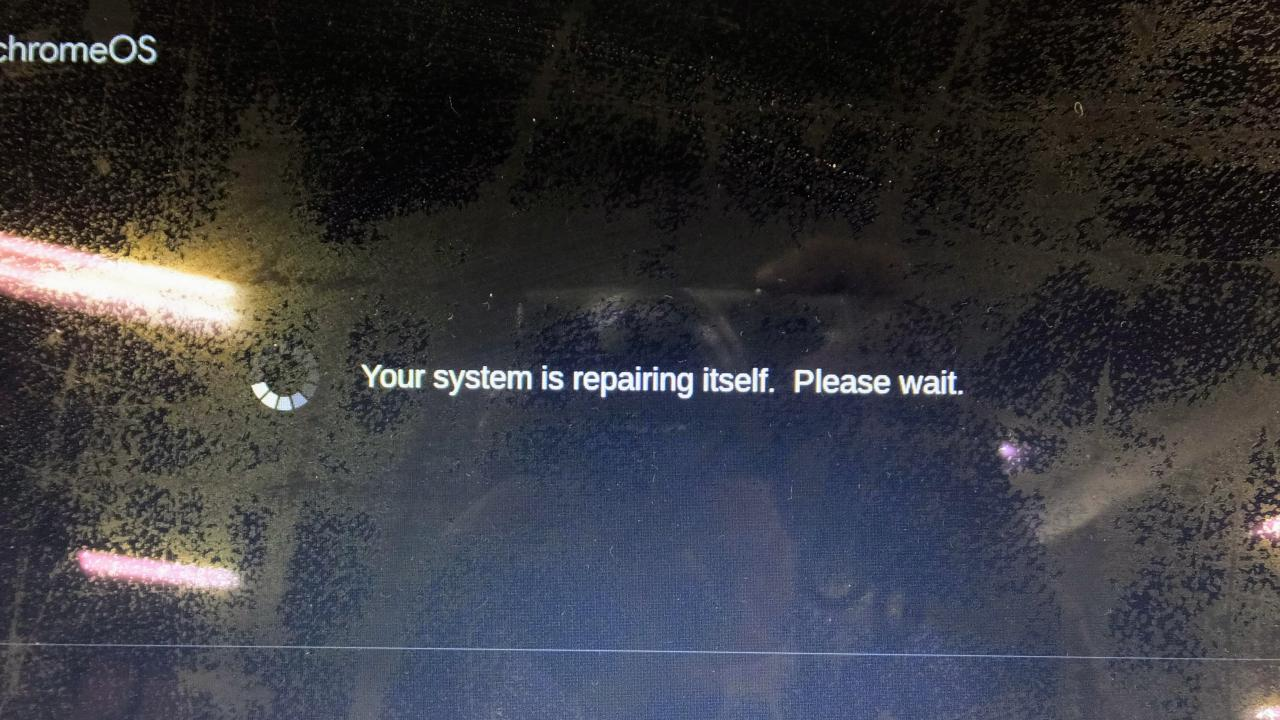
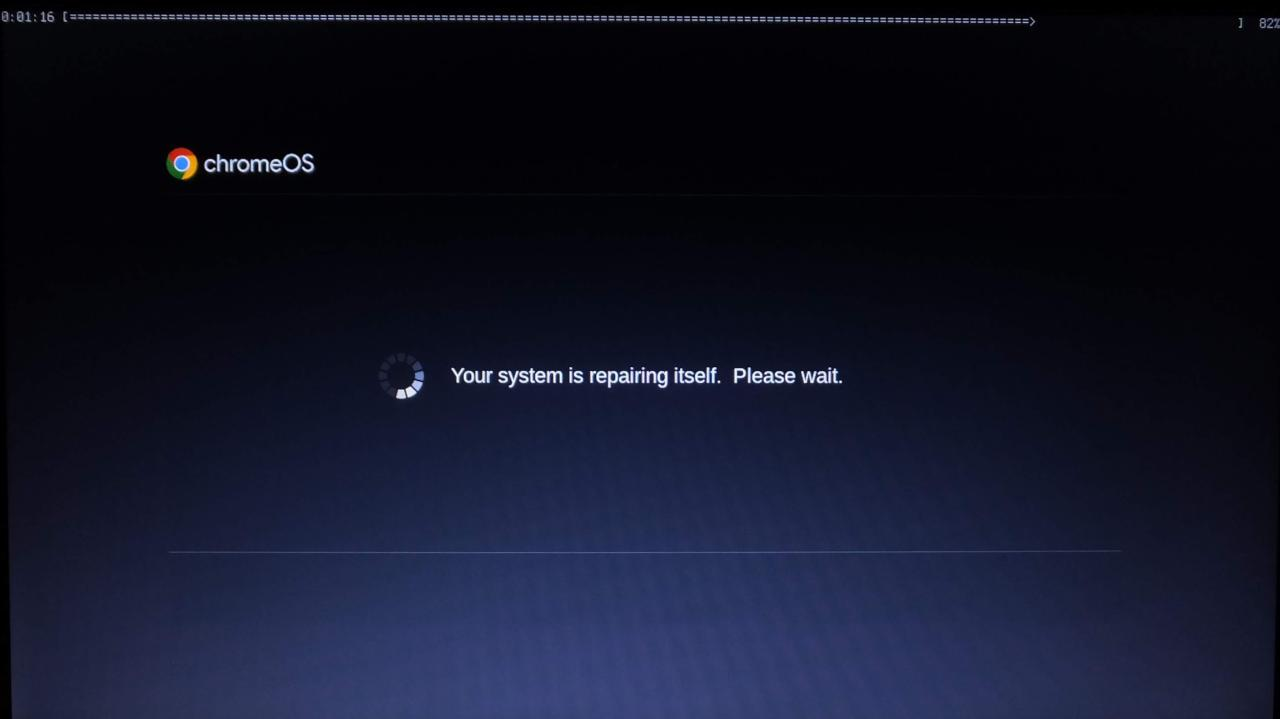
今回の記事の更新終了

diff --git a/chromeos-multiboot/ChromOSとWindowsのデュアルブート.md b/chromeos-multiboot/ChromOSとWindowsのデュアルブート.md
@@ -2,7 +2,7 @@
 
 # ChromeOS FlexとWindowsやmacOS等のマルチブート環境を作る
 
-> 【2024-06-10 追記】久しぶりにChromeOS Flexのマルチブート環境を作ってみたところ本記事のオリジナルの公開時点からChromeOS Flexのインストーラに変更があり、以前のままではWindowsでうまくいかないことがわかりました。また改めて作業したことで、Windowsでインストール後のパーティション修復を不要にできることにも気付きました。さらに筆者は普段英語キーボードなので気づいてなかったのですが、Debian Liveでは英語キーボードの配列となるため日本語キーボードのユーザーへ注意が抜けていました。それらの点を踏まえて記事を更新しました。
+> 【2024-06-11 追記】久しぶりにChromeOS Flexのマルチブート環境を作ってみたところ本記事のオリジナルの公開時点からChromeOS Flexのインストーラに変更があり、以前のままではWindowsでうまくいかないことがわかりました。また改めて作業したことで、Windowsでインストール後のパーティション修復を不要にできることにも気付きました。さらに筆者は普段英語キーボードなので気づいてなかったのですが、Debian Liveでは英語キーボードの配列となるため日本語キーボードのユーザーへ注意が抜けていました。それらの点を踏まえて記事を更新しました。
 
 ## はじめに
 
@@ -625,7 +625,7 @@ macOSのインストーラが起動したら、ディスクユーティリティ
 
 実際にChromeOS Flexを立ち上げると(起動方法は後述)次のように「Your system is repairing itself. Please wait.」と表示されバーインジケーターなども変化して、待っていれば修復できそうに見えますが実際にはいつまでたっても修復されません。
 
-![chromeos-repairing.jpg](https://qiita-image-store.s3.ap-northeast-1.amazonaws.com/0/130638/3d005b43-1211-ead2-10bd-46fa86c70d5f.jpeg)
+![chromeos-repairing.jpg](https://qiita-image-store.s3.ap-northeast-1.amazonaws.com/0/130638/1991b2ad-de73-b829-8031-ec5302d0d2a2.jpeg)
 
 前述のように、macOSのディスクユーティリティがインストールのためにパーティションをフォーマットするとパーティションテーブルを書き換えてしまうためで、ChromeOS Flexでは修復できない状態になっています。
 
@@ -744,14 +744,14 @@ Windows Registry Editor Version 5.00
 
 ## マルチブート環境構築後のパーティションテーブルの管理と修復
 
-本文中でインストールしたWindowsはWindows 10で、インストール後にsda13とsda14の2つのパーティションが増えました。後日Windows 11にアップグレードしたところsda14のサイズが縮小されて新たにsda15として回復パーティション追加になったとともにパーティションテーブルが書き換えられてしまい、ChromeOS Flexが起動できなくなりました。その修復のため、改めてDebian Liveを使って作業中に保存したp3-sda-dumpを元にしてパーティションの修復を行う羽目になりました。Windowsの回復パーティションについては必ずインストール時点で作られると思っていたのですが、そうでは無い場合もあるようです。
+当初の記事執筆時(2023年3月頃)にインストールしたWindowsはWindows 10で、インストール後にsda13(予約)とsda14(Windowsデータ)の2つのパーティションが作られていました。後日Windows 11にアップグレードしたところsda14のサイズが縮小され、新たにsda15として回復パーティションが追加されました。この時ストレージ全体のパーティションテーブルが書き換えられてChromeOS Flexが起動できなくなり、修復のため改めてDebian Liveを使って作業中に保存してあったp3-sda-dumpを元にしてパーティションの修復を行う羽目になりました。
 
 このようにWindowsやmacOSによってパーティションに変更が行われると、ほぼ間違い無くChromeOS Flexのパーティションテーブルは破壊されるので十分注意する必要があります。
 
-またChromeOS FlexではABアップデートを行うため、アップデート毎にパーティションテーブルのアトリビュートが書き換えられます。アトリビュートの変更と言っても入れ替えだけなので、最新のバックアップで無いパーティションテーブルを戻すと一つ古いOSになるだけだと思いますが、できれば定期的に最新のパーティションテーブルを保存するようにするのが望ましいです。同じPCに3つ目のOSとしてDebian等のLinux環境をインストールしておくと、最新のパーティションテーブルのバックアップといざという時の修復が簡単になります。
+また、ChromeOS FlexではABアップデート(更新時に2つのパーティションを切り替えて交互に利用する方式)を行うため、アップデート毎にパーティションテーブルのアトリビュートが書き換えられます。書き換えといってもアトリビュートの入れ替えだけなので、最新では無いバックアップのパーティションテーブルを戻すと一つ古いOSになるだけだと思いますが、できれば定期的に最新のパーティションテーブルを保存するようにするのが望ましいです。同じPCに3つ目のOSとしてDebian等のLinux環境をインストールしておくと、最新のパーティションテーブルのバックアップといざという時の修復が簡単になります。
 
 ## おわりに
 
-筆者の場合、以前にChromeOS Flexを利用したのはかなり古いPCであったためパフォーマンス面ではあまり快適な環境ではありませんでした。今回はWindowsで使っても実用的なパフォーマンスがあるPCなのでChromeOS Flexも快適に利用でき、余計なアプリが動かないこともあってか動作は軽く、起動や終了の速さも特筆ものでした。
+実際にChromeOS Flexを使ってみると、同じPCでWindowsやmacOSに比べ余計なアプリが動かないこともあってか動作は極めて軽く、起動や終了の速さも特筆ものでした。アプリはWebブラウザ内で利用できるものだけになるのですが、今時はWordやExcel、PowerPoint、さらにはオンラインミーティング等もブラウザだけで扱えます。
 
-WindowsやmacOSが快適に使えるPCでわざわざChromeOS Flexを使うメリットはあまり無さそうですが、CPUはそこそこなのにメモリが少ない場合(4GB程度)にChromeOS Flexを選ぶのは最適な選択肢かもしれません。
+WindowsやmacOSが快適に使えるPCでわざわざChromeOS Flexを使うメリットはあまり無さそうですが、CPUはそこそこなのにメモリが少ない場合(4GB程度)等にChromeOS Flexを選ぶのは最適な選択肢かもしれません。
